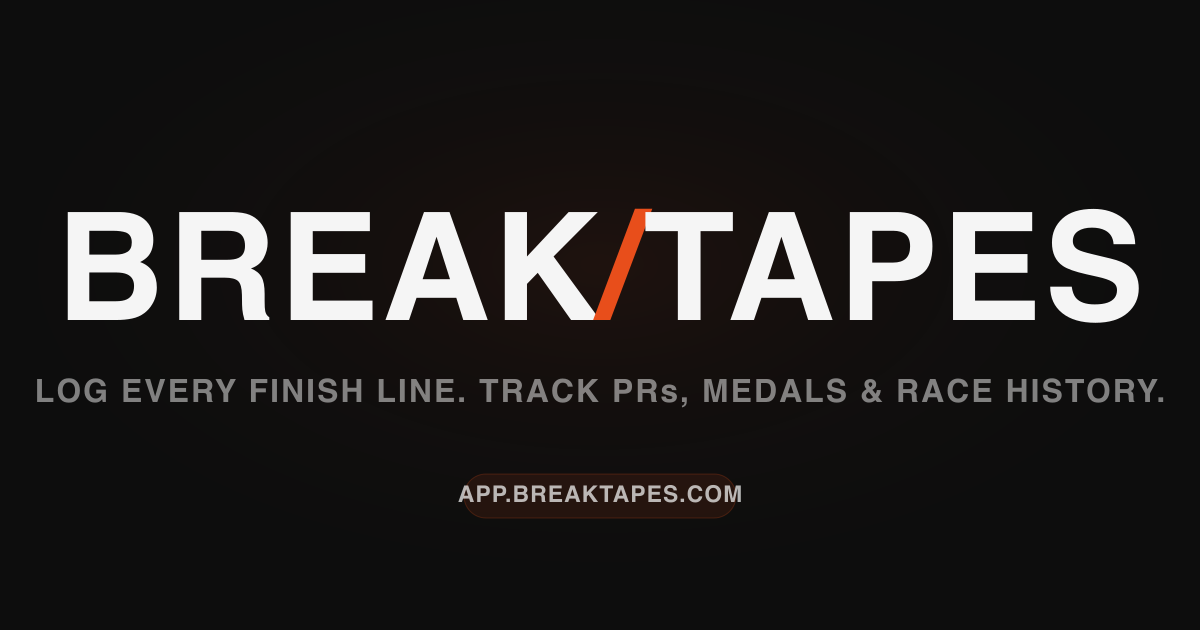
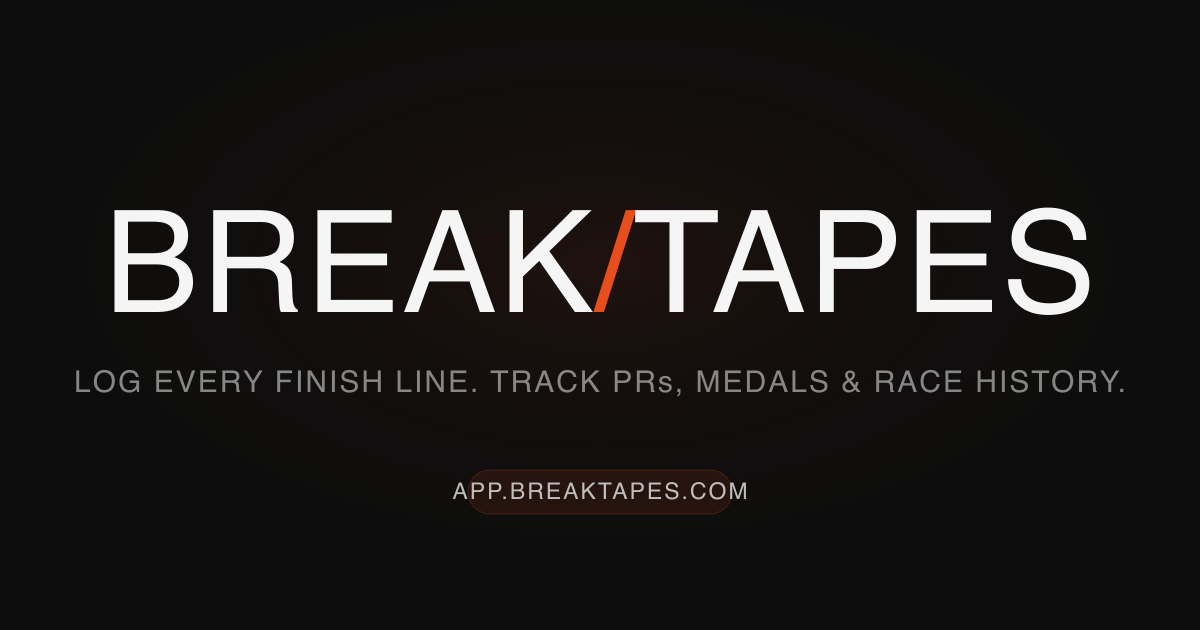
fix: OG image renders in Barlow Condensed brand font (v0.7.2.3) (#427)
The previous render fell back to a system sans because rsvg-convert
ignores data-URI @font-face. Installed Barlow Condensed via fontconfig
and rendered referencing the family name. Wordmark, tagline, and URL
pill now use the correct condensed brand typeface.

Changed region(s): [[0.0308, 0.3317, 0.9558, 0.5127], [0.0308, 0.573, 0.9867, 0.6635], [0.37, 0.754, 0.6167, 0.8444]]

diff --git a/CHANGELOG.md b/CHANGELOG.md
@@ -3,6 +3,11 @@
 All notable changes to BREAKTAPES are documented here.
 Format loosely follows [Keep a Changelog](https://keepachangelog.com/en/1.0.0/).
 
+## [0.7.2.3] - 2026-06-02
+
+### Fixed
+- **OG image now renders in Barlow Condensed** — the share card was rendering the wordmark in a fallback system font instead of the brand typeface. Now uses the correct condensed brand font for the BREAK/TAPES wordmark, tagline, and URL.
+
 ## [0.7.2.2] - 2026-06-02
 
 ### Changed
